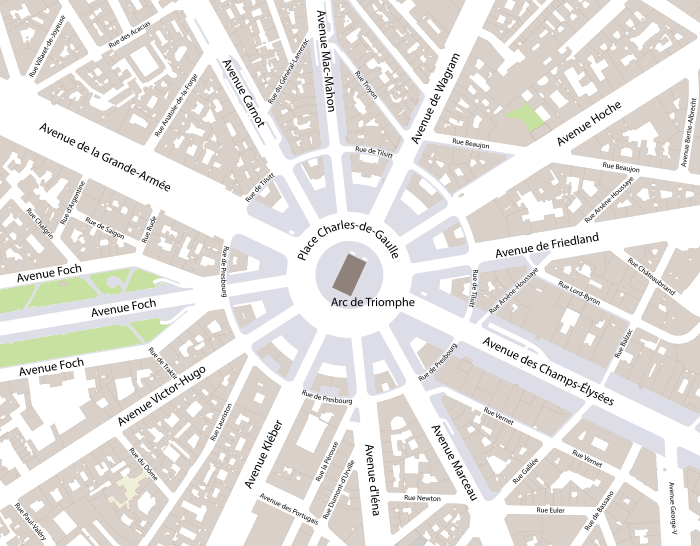
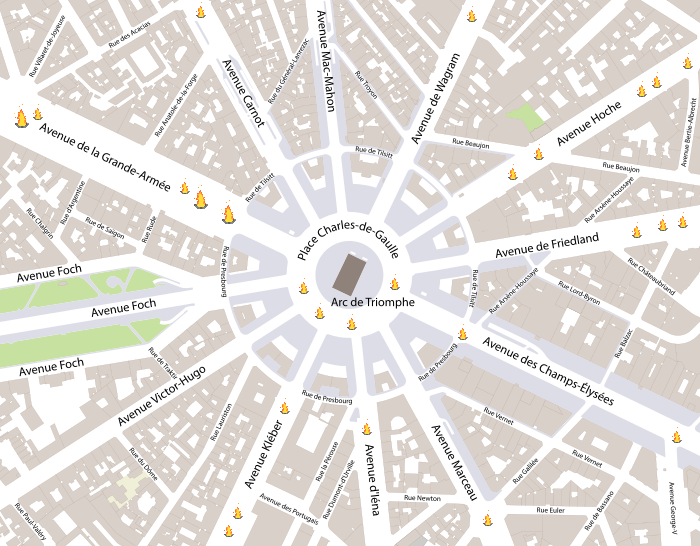
Map update

diff --git a/interface/src/app/Component/display-map/display-map.component.html b/interface/src/app/Component/display-map/display-map.component.html
@@ -14,7 +14,8 @@
 </div>
 
 <div class="elements">
-  <img class="img-map" src="https://upload.wikimedia.org/wikipedia/commons/thumb/a/ac/Place_Charles-de-Gaulle_-_OSM_2016.svg/700px-Place_Charles-de-Gaulle_-_OSM_2016.svg.png">
+  <!--<img class="img-map" src="https://upload.wikimedia.org/wikipedia/commons/thumb/a/ac/Place_Charles-de-Gaulle_-_OSM_2016.svg/700px-Place_Charles-de-Gaulle_-_OSM_2016.svg.png">-->
+  <img class="img-map" src="https://i.imgur.com/bghYtly.png">
 
   <div  *ngFor="let villain of listOfVillains" [ngStyle]="{'left':((villain.x/51)*100).toString() + '%',
  'top': ((villain.y/51)*100).toString() + '%', 'position': 'absolute'}">
